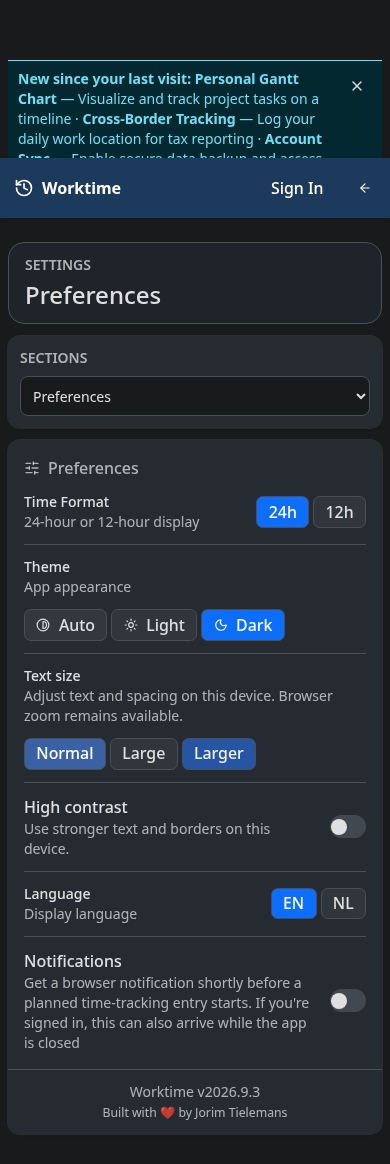
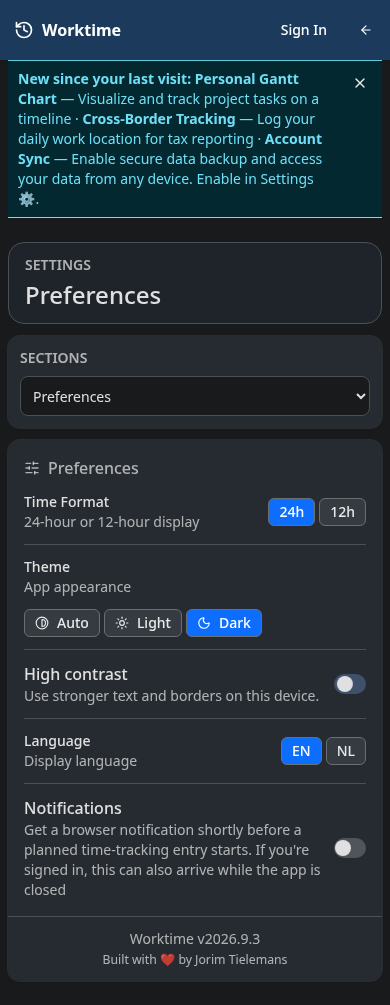
fix(a11y): drop the font-size setting, which #270 excludes; prune futurePlans
The issue puts a custom font-size setting out of scope (browser zoom is the
mechanism), so remove it and keep high contrast, the reduced-motion fallback
and the focus baseline. Remove the shipped accessibility line from futurePlans.

diff --git a/frontend/e2e/appearance.spec.ts b/frontend/e2e/appearance.spec.ts
@@ -4,7 +4,7 @@ import { expectNoAccessibilityViolations } from "./axe";
 import { mkdirSync } from "node:fs";
 
 for (const theme of ["light", "dark"] as const) {
-  test(`appearance controls persist and scale without overflow (${theme})`, async ({ page }) => {
+  test(`high contrast persists and fits without overflow (${theme})`, async ({ page }) => {
     test.setTimeout(90_000);
     await page.addInitScript(
       ({ theme, stateKey }) => {
@@ -19,14 +19,12 @@ for (const theme of ["light", "dark"] as const) {
       { theme, stateKey: USER_STATE_STORAGE_KEY },
     );
     await page.goto("/settings?section=general");
-    await page.getByRole("radio", { name: "Larger", exact: true }).click();
-    await page.getByRole("switch", { name: "High contrast", exact: true }).click();
+    const toggle = page.getByRole("switch", { name: "High contrast", exact: true });
+    await toggle.click();
     await expect(page.locator("html")).toHaveAttribute("data-high-contrast", "true");
-    await expect(page.locator("html")).toHaveCSS("font-size", "20px");
     await expectNoAccessibilityViolations(page, `high contrast ${theme}`);
     await page.reload();
-    await expect(page.getByRole("radio", { name: "Larger", exact: true })).toBeChecked();
-    await expect(page.getByRole("switch", { name: "High contrast", exact: true })).toBeChecked();
+    await expect(toggle).toBeChecked();
     mkdirSync("../docs/screenshots/270", { recursive: true });
     for (const width of [1280, 390]) {
       await page.setViewportSize({ width, height: 1000 });
@@ -34,28 +32,16 @@ for (const theme of ["light", "dark"] as const) {
         .poll(() => page.evaluate(() => document.documentElement.scrollWidth <= innerWidth))
         .toBe(true);
       await page.screenshot({
-        path: `../docs/screenshots/270/${theme}-contrast-larger-${width}.png`,
+        path: `../docs/screenshots/270/${theme}-contrast-${width}.png`,
         fullPage: true,
       });
-      if (width === 390) {
-        await page.getByRole("radio", { name: "Larger", exact: true }).scrollIntoViewIfNeeded();
-        await page.screenshot({
-          path: `../docs/screenshots/270/${theme}-contrast-larger-390-viewport.png`,
-        });
-      }
-      await page.getByRole("switch", { name: "High contrast", exact: true }).click();
-      await page.getByRole("radio", { name: "Normal", exact: true }).click();
+      await toggle.click();
+      await expect(page.locator("html")).toHaveAttribute("data-high-contrast", "false");
       await page.screenshot({
         path: `../docs/screenshots/270/${theme}-normal-${width}.png`,
         fullPage: true,
       });
-      await page.getByRole("radio", { name: "Large", exact: true }).click();
-      await page.screenshot({
-        path: `../docs/screenshots/270/${theme}-large-${width}.png`,
-        fullPage: true,
-      });
-      await page.getByRole("radio", { name: "Larger", exact: true }).click();
-      await page.getByRole("switch", { name: "High contrast", exact: true }).click();
+      await toggle.click();
     }
   });
 }

diff --git a/frontend/tests/contexts/appearance.test.tsx b/frontend/tests/contexts/appearance.test.tsx
@@ -6,13 +6,10 @@ import { DEVICE_PREFERENCES_STORAGE_KEY, USER_STATE_STORAGE_KEY } from "@/consta
 afterEach(() => localStorage.clear());
 
 it("migrates missing and invalid appearance fields conservatively", () => {
-  for (const value of [null, {}, { fontScale: "huge", highContrast: "true" }]) {
-    expect(normalizeAppearance(value)).toEqual({ fontScale: "normal", highContrast: false });
+  for (const value of [null, {}, { highContrast: "true" }, { fontScale: "larger" }]) {
+    expect(normalizeAppearance(value)).toEqual({ highContrast: false });
   }
-  expect(normalizeAppearance({ fontScale: "larger", highContrast: true })).toEqual({
-    fontScale: "larger",
-    highContrast: true,
-  });
+  expect(normalizeAppearance({ highContrast: true })).toEqual({ highContrast: true });
 });
 
 it("persists appearance on this device without changing account state and restores it", () => {
@@ -20,17 +17,16 @@ it("persists appearance on this device without changing account state and restor
   localStorage.setItem(DEVICE_PREFERENCES_STORAGE_KEY, JSON.stringify({ lastHdayTeamId: "team" }));
   const account = localStorage.getItem(USER_STATE_STORAGE_KEY);
   const { result, unmount } = renderHook(useSettings, { wrapper: SettingsProvider });
-  act(() => result.current.updateFontScale("large"));
   act(() => result.current.updateHighContrast(true));
-  expect(result.current.appearance).toEqual({ fontScale: "large", highContrast: true });
+  expect(result.current.appearance).toEqual({ highContrast: true });
   expect(localStorage.getItem(USER_STATE_STORAGE_KEY)).toBe(account);
   expect(JSON.parse(localStorage.getItem(DEVICE_PREFERENCES_STORAGE_KEY)!)).toEqual({
     lastHdayTeamId: "team",
-    appearance: { fontScale: "large", highContrast: true },
+    appearance: { highContrast: true },
   });
   unmount();
   const restored = renderHook(useSettings, { wrapper: SettingsProvider });
-  expect(restored.result.current.appearance).toEqual({ fontScale: "large", highContrast: true });
+  expect(restored.result.current.appearance).toEqual({ highContrast: true });
   act(() => restored.result.current.resetSettings());
-  expect(restored.result.current.appearance).toEqual({ fontScale: "normal", highContrast: false });
+  expect(restored.result.current.appearance).toEqual({ highContrast: false });
 });

diff --git a/frontend/src/contexts/SettingsContext.tsx b/frontend/src/contexts/SettingsContext.tsx
@@ -63,25 +63,13 @@ export interface UserSettings {
   hdayUsername: string | null;
 }
 
-export type FontScale = "normal" | "large" | "larger";
-
-export function normalizeAppearance(value: unknown): {
-  fontScale: FontScale;
-  highContrast: boolean;
-} {
+export function normalizeAppearance(value: unknown): { highContrast: boolean } {
   const appearance = isObjectRecord(value) ? value : {};
-  return {
-    fontScale:
-      appearance.fontScale === "large" || appearance.fontScale === "larger"
-        ? appearance.fontScale
-        : "normal",
-    highContrast: appearance.highContrast === true,
-  };
+  return { highContrast: appearance.highContrast === true };
 }
 
 interface SettingsContextType {
-  appearance: { fontScale: FontScale; highContrast: boolean };
-  updateFontScale: (value: FontScale) => void;
+  appearance: { highContrast: boolean };
   updateHighContrast: (value: boolean) => void;
   settings: UserSettings;
   updateTimeFormat: (format: TimeFormat) => void;
@@ -419,15 +407,6 @@ export function SettingsProvider({ children }: SettingsProviderProps) {
   const { preferences, setPreferences } = useDevicePreferences();
   // Missing fields in older device preferences migrate to the normal appearance.
   const appearance = useStableShallowObject(normalizeAppearance(preferences?.appearance));
-  const updateFontScale = useCallback(
-    (fontScale: FontScale) => {
-      setPreferences((previous) => ({
-        ...previous,
-        appearance: { ...normalizeAppearance(previous?.appearance), fontScale },
-      }));
-    },
-    [setPreferences],
-  );
   const updateHighContrast = useCallback(
     (highContrast: boolean) => {
       setPreferences((previous) => ({
@@ -744,7 +723,6 @@ export function SettingsProvider({ children }: SettingsProviderProps) {
     () => ({
       settings: stableSettings,
       appearance,
-      updateFontScale,
       updateHighContrast,
       updateTimeFormat,
       updateTheme,
@@ -776,7 +754,6 @@ export function SettingsProvider({ children }: SettingsProviderProps) {
     [
       stableSettings,
       appearance,
-      updateFontScale,
       updateHighContrast,
       userState.myTeam,
       userState.scheduleType,

diff --git a/frontend/src/components/settings/SettingsGeneralSection.tsx b/frontend/src/components/settings/SettingsGeneralSection.tsx
@@ -11,9 +11,7 @@ import * as m from "@/paraglide/messages.js";
 interface SettingsGeneralSectionProps {
   timeFormat: "12h" | "24h";
   theme: "light" | "dark" | "auto";
-  fontScale: "normal" | "large" | "larger";
   highContrast: boolean;
-  onFontScaleChange: (value: "normal" | "large" | "larger") => void;
   onHighContrastChange: (value: boolean) => void;
   locale: "en" | "nl";
   notificationsEnabled: boolean;
@@ -24,9 +22,7 @@ interface SettingsGeneralSectionProps {
 }
 
 export function SettingsGeneralSection({
-  fontScale,
   highContrast,
-  onFontScaleChange,
   onHighContrastChange,
   timeFormat,
   theme,
@@ -60,18 +56,6 @@ export function SettingsGeneralSection({
               { value: "auto", label: m.theme_auto(), icon: ContrastIcon },
               { value: "light", label: m.theme_light(), icon: SunIcon },
               { value: "dark", label: m.theme_dark(), icon: MoonIcon },
-            ]}
-          />
-        </SettingsRow>
-        <SettingsRow title={m.font_scale_label()} description={m.font_scale_description()}>
-          <ChoiceRadioGroup
-            label={m.font_scale_label()}
-            value={fontScale}
-            onChange={(value) => onFontScaleChange(value)}
-            options={[
-              { value: "normal", label: m.font_scale_normal() },
-              { value: "large", label: m.font_scale_large() },
-              { value: "larger", label: m.font_scale_larger() },
             ]}
           />
         </SettingsRow>

diff --git a/frontend/tests/lib/appearanceStyles.test.ts b/frontend/tests/lib/appearanceStyles.test.ts
@@ -17,9 +17,8 @@ it("globally reduces motion including utility animations and keeps lifecycle eve
   expect(fallback).toContain("*::before");
   expect(fallback).toContain("*::after");
 });
-it("scales the root relative to the browser default", () => {
-  expect(css).toMatch(/data-font-scale="large"[^}]*font-size: 112.5%/);
-  expect(css).toMatch(/data-font-scale="larger"[^}]*font-size: 125%/);
+it("leaves text sizing to the browser instead of an in-app font scale", () => {
+  expect(css).not.toContain("data-font-scale");
 });
 it("high contrast text, links and borders contrast with theme surfaces", () => {
   const tokens = readFileSync(path.resolve(__dirname, "../../src/styles/tokens.css"), "utf8");

diff --git a/frontend/src/pages/SettingsPage.tsx b/frontend/src/pages/SettingsPage.tsx
@@ -273,7 +273,6 @@ export function SettingsContent({
     updateTimeFormat,
     updateTheme,
     appearance,
-    updateFontScale,
     updateHighContrast,
     updateNotifications,
     updateTimeOffEnabled,
@@ -615,9 +614,7 @@ export function SettingsContent({
       <SettingsGeneralSection
         timeFormat={settings.timeFormat}
         theme={settings.theme}
-        fontScale={appearance.fontScale}
         highContrast={appearance.highContrast}
-        onFontScaleChange={updateFontScale}
         onHighContrastChange={updateHighContrast}
         locale={getLocale() === "nl" ? "nl" : "en"}
         notificationsEnabled={settings.notifications === "on"}

diff --git a/frontend/src/hooks/useDevicePreferences.ts b/frontend/src/hooks/useDevicePreferences.ts
@@ -5,7 +5,7 @@ import { useLocalStorage } from "@/hooks/useLocalStorage";
 export type DismissibleHint = "unifiedCalendar";
 
 export interface DevicePreferences {
-  appearance?: { fontScale?: "normal" | "large" | "larger"; highContrast?: boolean };
+  appearance?: { highContrast?: boolean };
   dismissedHints?: Partial<Record<DismissibleHint, boolean>>;
   flexStartOverride?: { date: string; time: string } | null;
   hdayHelper?: { url: string | null };

diff --git a/frontend/tests/hooks/usePushSubscription.test.ts b/frontend/tests/hooks/usePushSubscription.test.ts
@@ -41,8 +41,7 @@ function mockSettings(overrides: Partial<UserSettings> = {}): void {
     settings: { ...defaultSettings, ...overrides },
     updateTimeFormat: vi.fn(),
     updateTheme: vi.fn(),
-    appearance: { fontScale: "normal", highContrast: false },
-    updateFontScale: vi.fn(),
+    appearance: { highContrast: false },
     updateHighContrast: vi.fn(),
     updateNotifications: vi.fn(),
     updateTimeOffEnabled: vi.fn(),

diff --git a/frontend/src/App.tsx b/frontend/src/App.tsx
@@ -43,7 +43,6 @@ import { logger } from "@/utils/logger";
 function AppContent() {
   const { appearance } = useSettings();
   useLayoutEffect(() => {
-    document.documentElement.dataset.fontScale = appearance.fontScale;
     document.documentElement.dataset.highContrast = String(appearance.highContrast);
   }, [appearance]);
   const { showSuccess, showInfo, showError } = useToast();

diff --git a/frontend/tests/hooks/useFormattedShiftTime.test.ts b/frontend/tests/hooks/useFormattedShiftTime.test.ts
@@ -26,8 +26,7 @@ const buildSettings = (timeFormat: "12h" | "24h") => ({
   } as const,
   updateTimeFormat: vi.fn(),
   updateTheme: vi.fn(),
-  appearance: { fontScale: "normal" as const, highContrast: false },
-  updateFontScale: vi.fn(),
+  appearance: { highContrast: false },
   updateHighContrast: vi.fn(),
   updateNotifications: vi.fn(),
   updateTimeOffEnabled: vi.fn(),

diff --git a/frontend/src/styles/base.css b/frontend/src/styles/base.css
@@ -267,12 +267,6 @@
   }
 }
 @layer base {
-  :root[data-font-scale="large"] {
-    font-size: 112.5%;
-  }
-  :root[data-font-scale="larger"] {
-    font-size: 125%;
-  }
   :where(a, button, input, select, textarea, summary, [tabindex]):focus-visible {
     outline: 2px solid var(--wt-focus-color);
     outline-offset: 2px;

diff --git a/frontend/src/data/changelog.ts b/frontend/src/data/changelog.ts
@@ -841,5 +841,4 @@ export const futurePlans: string[] = [
   "Calendar export (.ics format)",
   "Cross-schedule transfer overlap detection",
   "Mobile carousel for team browsing",
-  "Advanced accessibility features (high-contrast mode, font scaling)",
 ];
